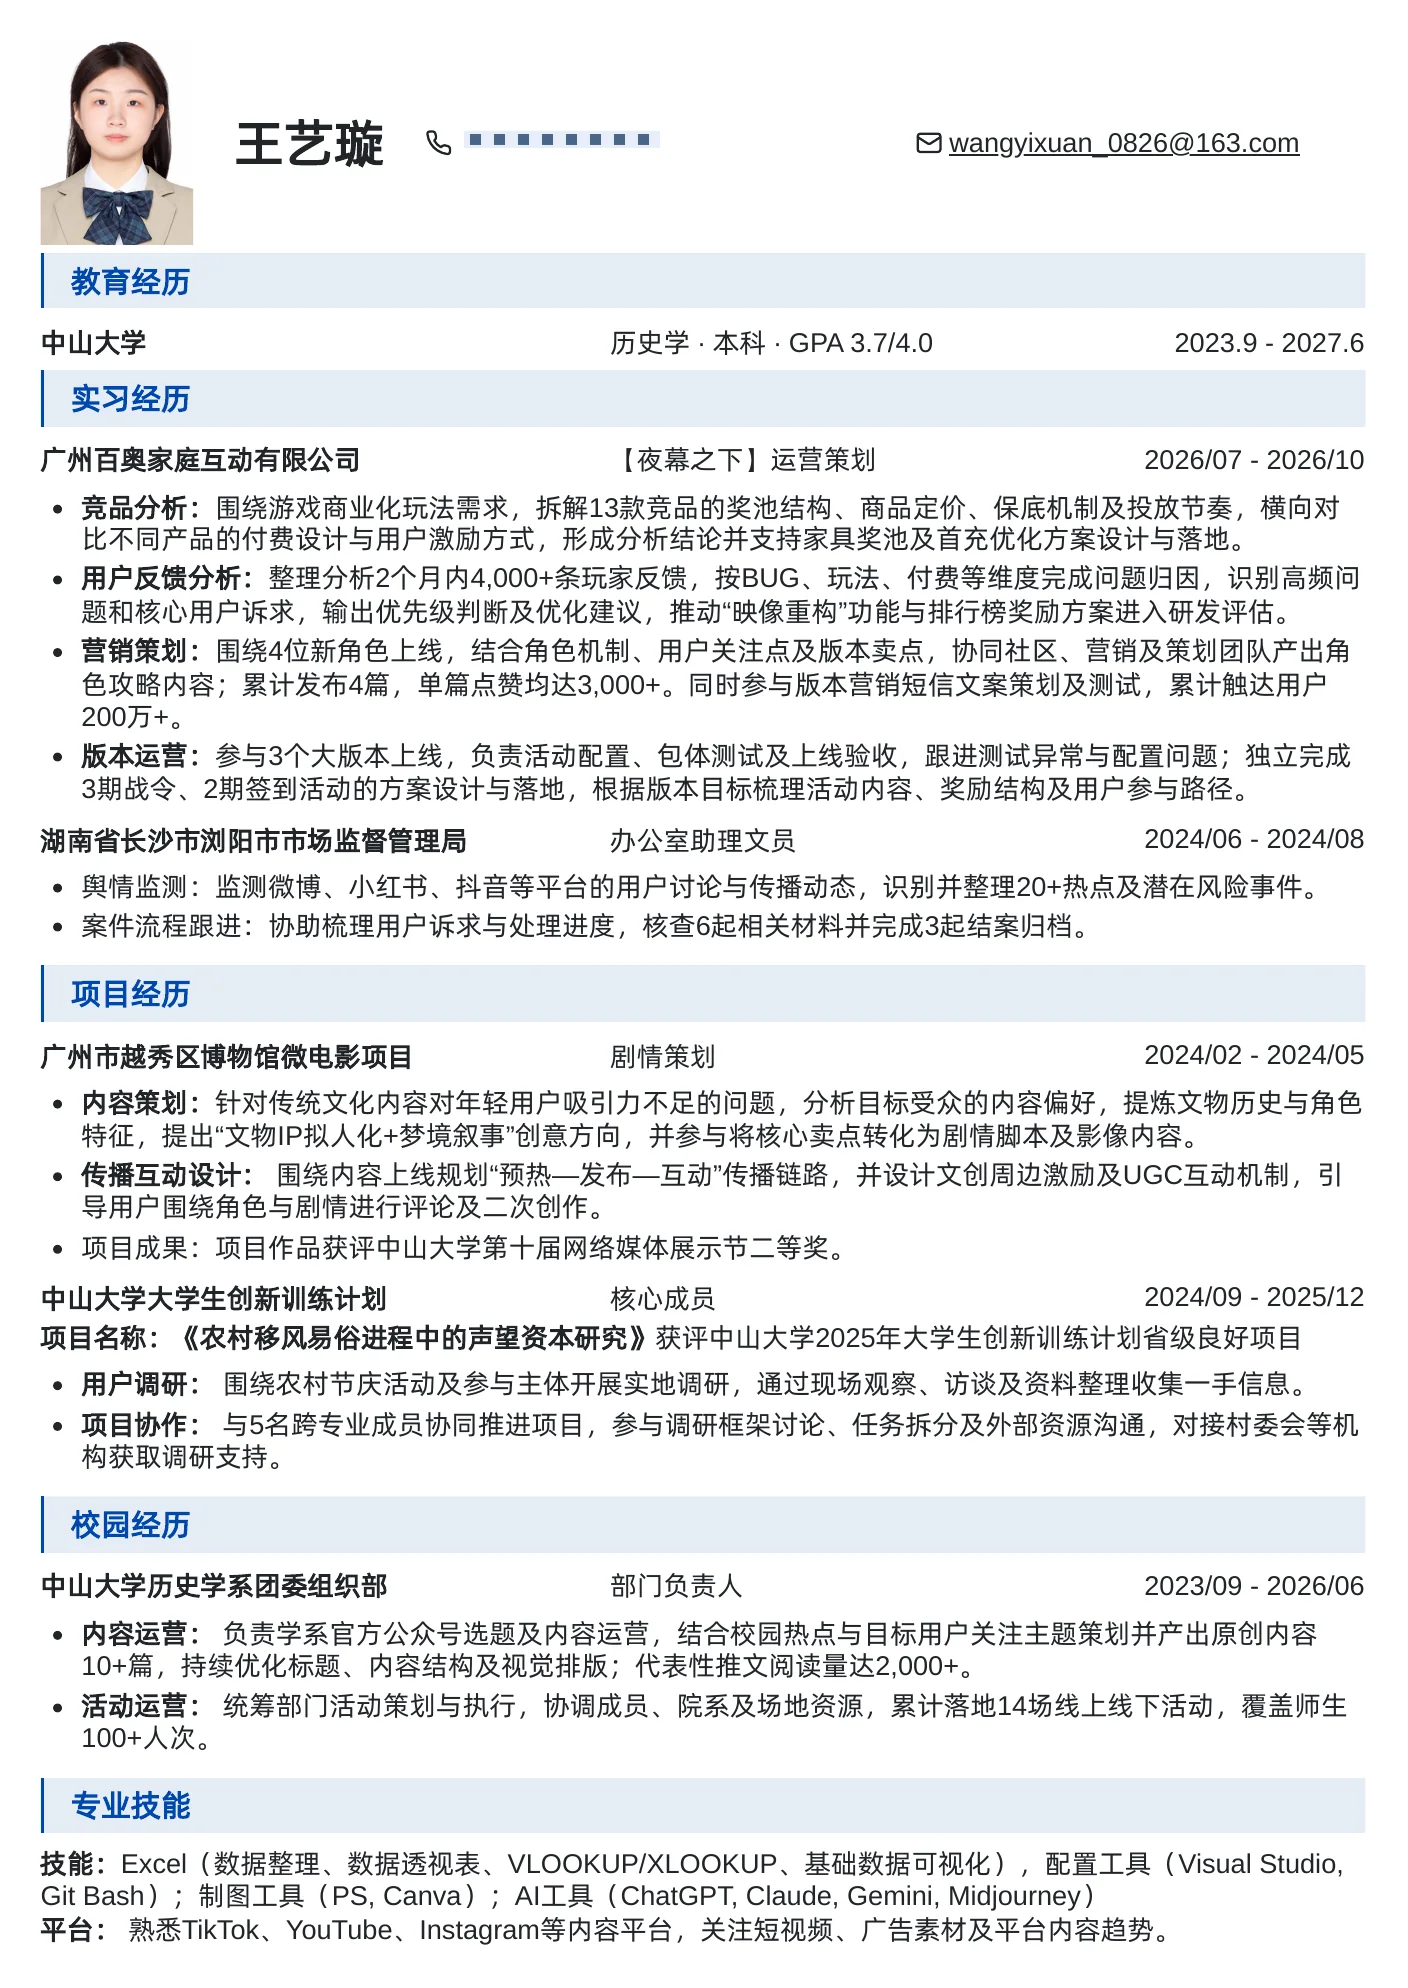
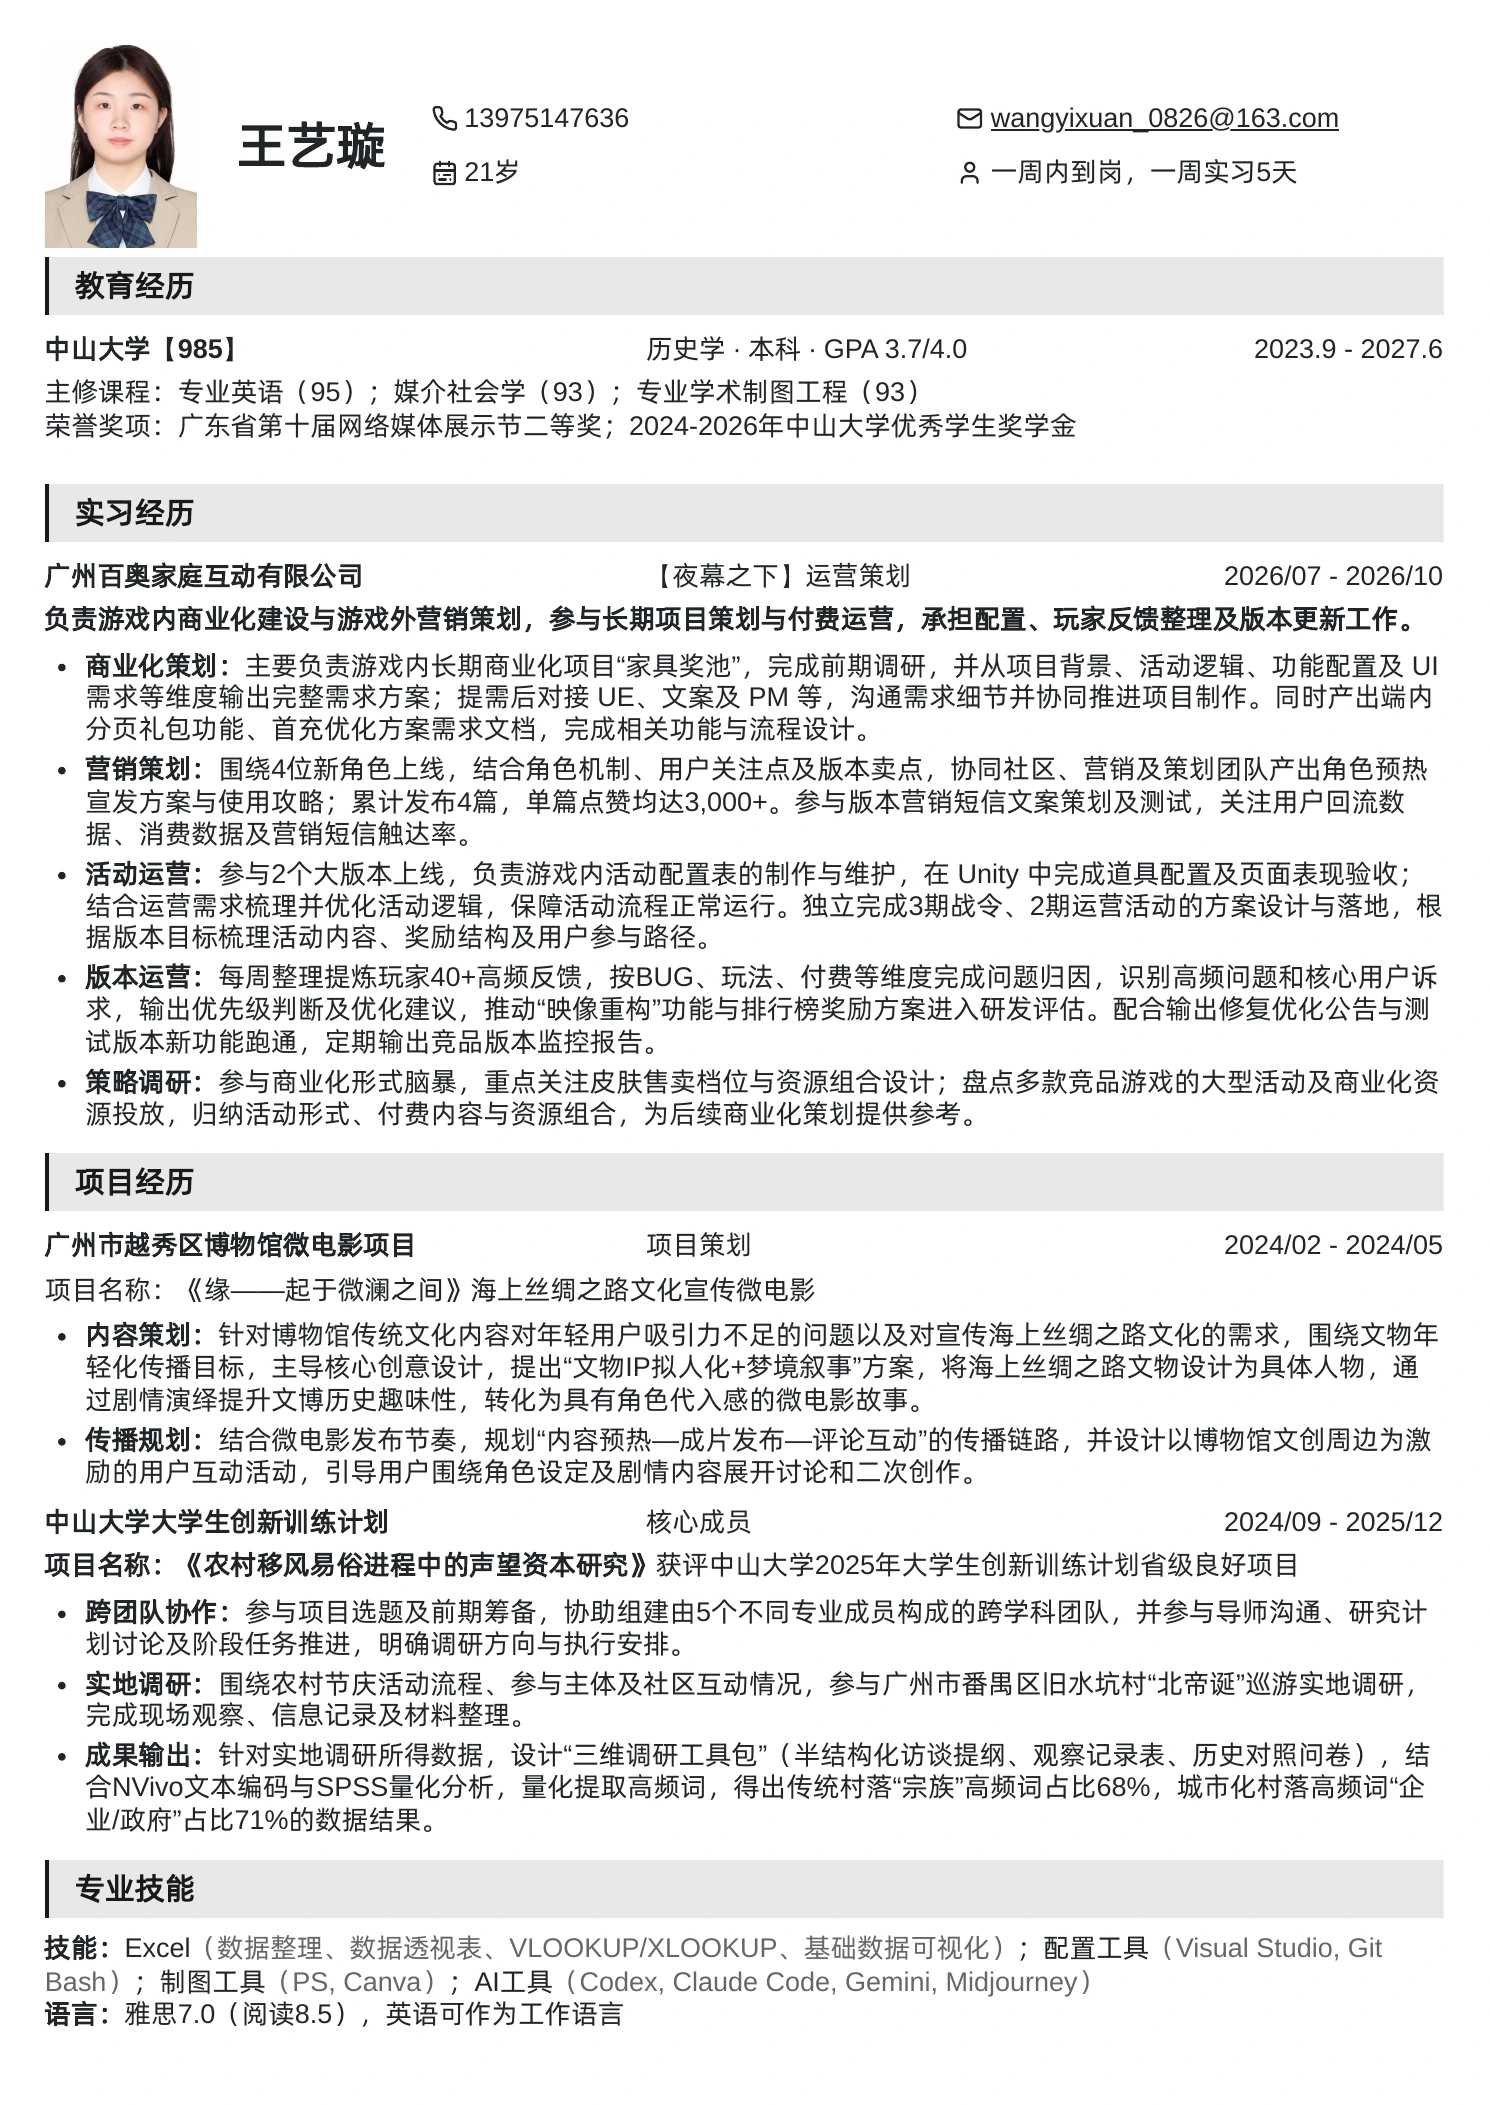
Update portfolio resume

diff --git a/resume/index.html b/resume/index.html
@@ -192,8 +192,8 @@
           src="assets/resume-page-01.webp"
           alt="王艺璇的简历，第 1 页"
           draggable="false"
-          width="1408"
-          height="1988"
+          width="1490"
+          height="2105"
         />
       </section>
     </main>
